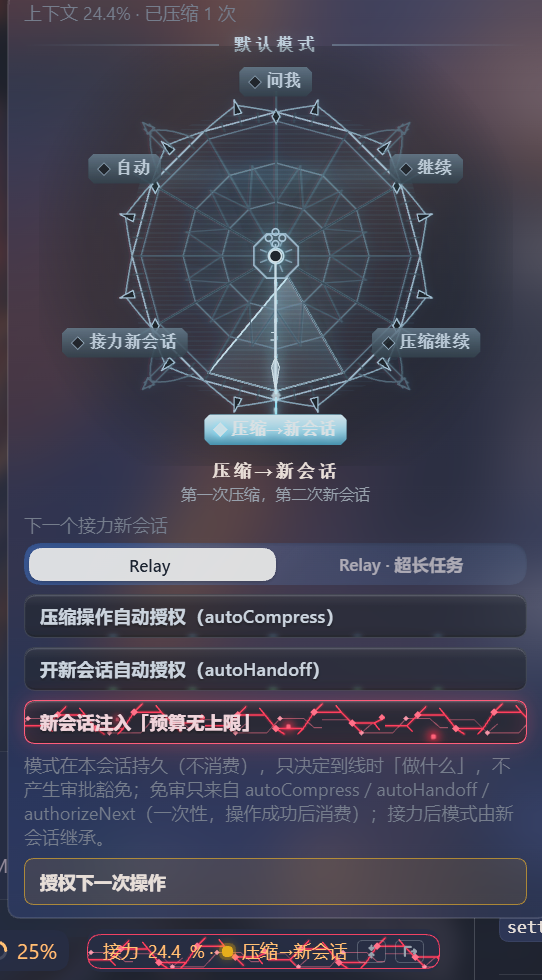
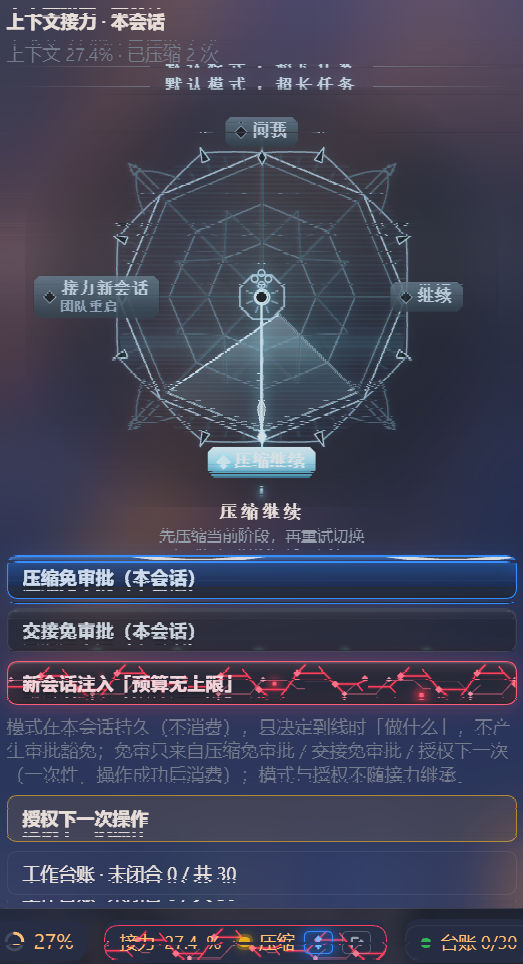
docs: 快速介绍与新版面板截图

diff --git a/README.en.md b/README.en.md
@@ -10,6 +10,12 @@
 
 It doesn't swap your model, delete your conversation, or make your decisions for you.
 
+## Quick intro
+
+![Composer menu and architect model](docs/images/composer-menu.png)
+
+The menu below the composer: model, reasoning effort, architect model, and enabling official agent team collaboration.
+
 ## The problems it solves
 
 1. **The context stays where it works efficiently.** Long tasks don't drift, and they don't get more expensive the longer they run.
@@ -116,9 +122,9 @@ Either way you still need to reload the profile, refresh the page, and then crea
 
 ### Screenshot
 
-A historical screenshot of the relay panel (the current dial is ask me / keep going / compact and continue / hand off):
+The relay panel: the dial (ask me / keep going / compact and continue / hand off), per-session exemption from approval for compaction and for handoff, authorization for the next operation, "unlimited budget" injected into the new session, and the work ledger:
 
-![Relay panel](https://github.com/rezon-aki/dsh-context-relay/blob/main/docs/images/relay-panel.png?raw=true)
+![Relay panel](docs/images/relay-panel.png)
 
 ## What it does for you, and when it comes to ask
 

diff --git a/README.md b/README.md
@@ -10,6 +10,12 @@
 
 它不换模型、不删你的对话，也不替你拍板。
 
+## 快速介绍
+
+![输入框菜单与架构师模型](docs/images/composer-menu.png)
+
+输入框下方的菜单：模型、推理等级、架构师模型、启用智能体团队协作。
+
 ## 它解决什么问题
 
 1. **上下文一直待在高效区间**：长任务不会越聊越飘、越聊越贵；
@@ -116,9 +122,9 @@ dsh plugin --profile web add /path/to/dsh-plugins/dsh-context-relay
 
 ### 界面截图
 
-接力面板历史截图（当前表盘为：问我 / 继续 / 压缩继续 / 接力新会话）：
+接力面板：表盘（问我 / 继续 / 压缩继续 / 接力新会话）、压缩免审批、交接免审批、授权下一次操作、新会话注入「预算无上限」，以及工作台账：
 
-![接力面板](https://github.com/rezon-aki/dsh-context-relay/blob/main/docs/images/relay-panel.png?raw=true)
+![接力面板](docs/images/relay-panel.png)
 
 ## 它会替你做什么、什么时候会来问你
 
